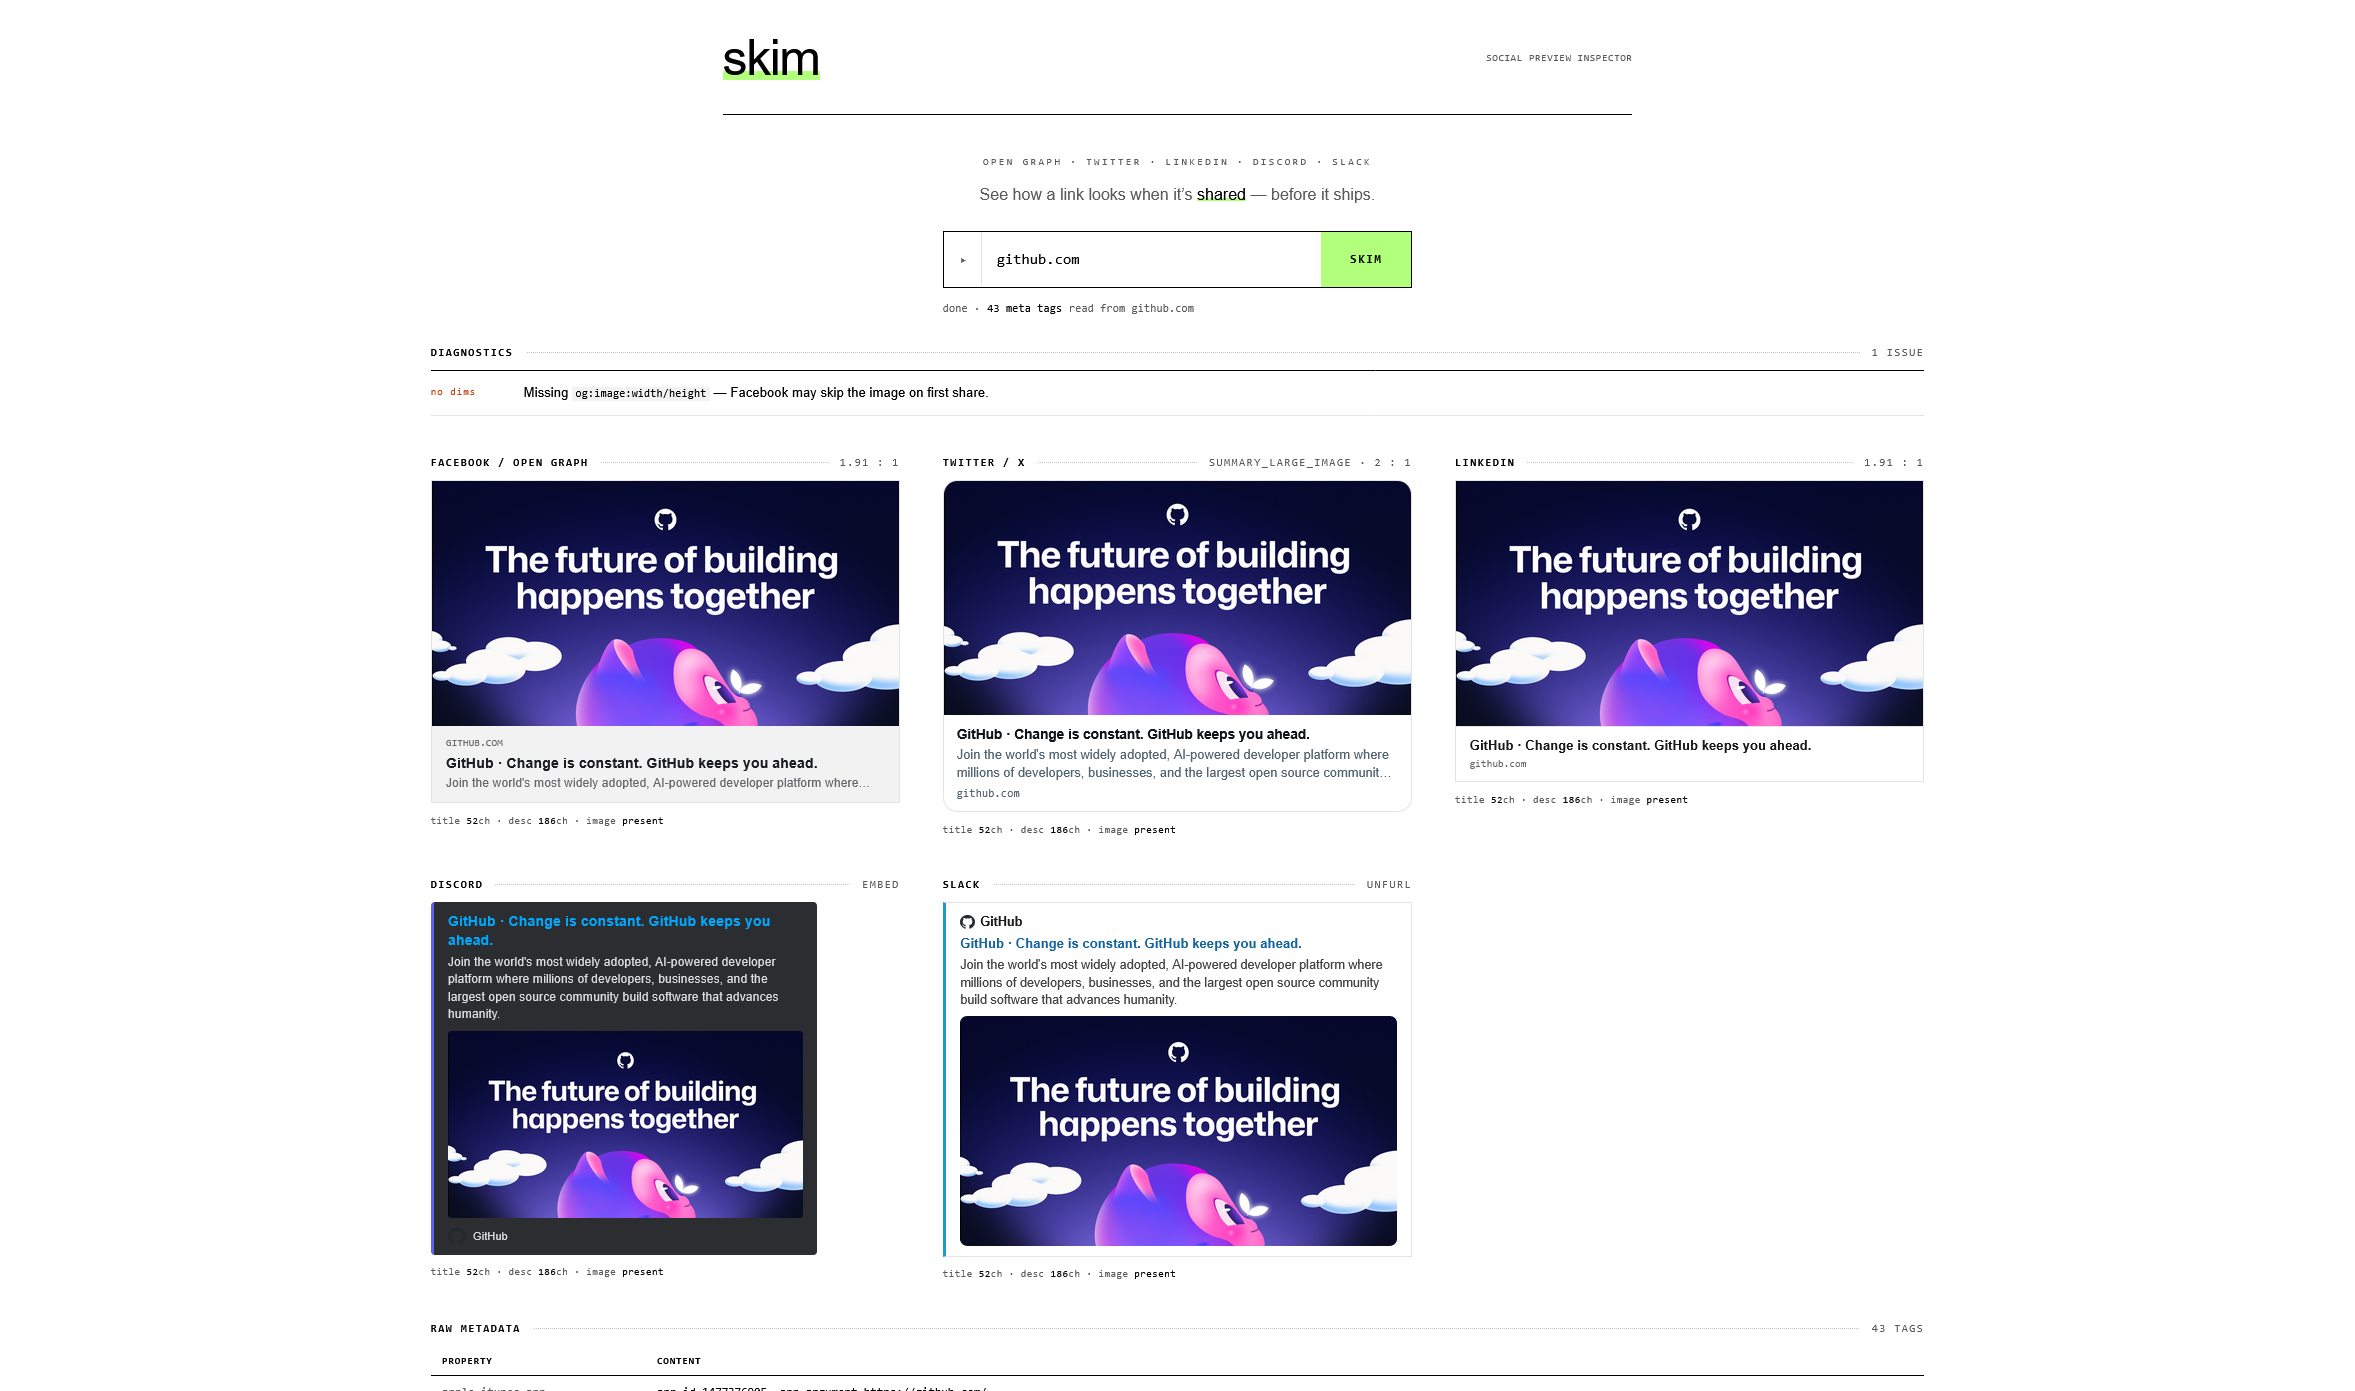
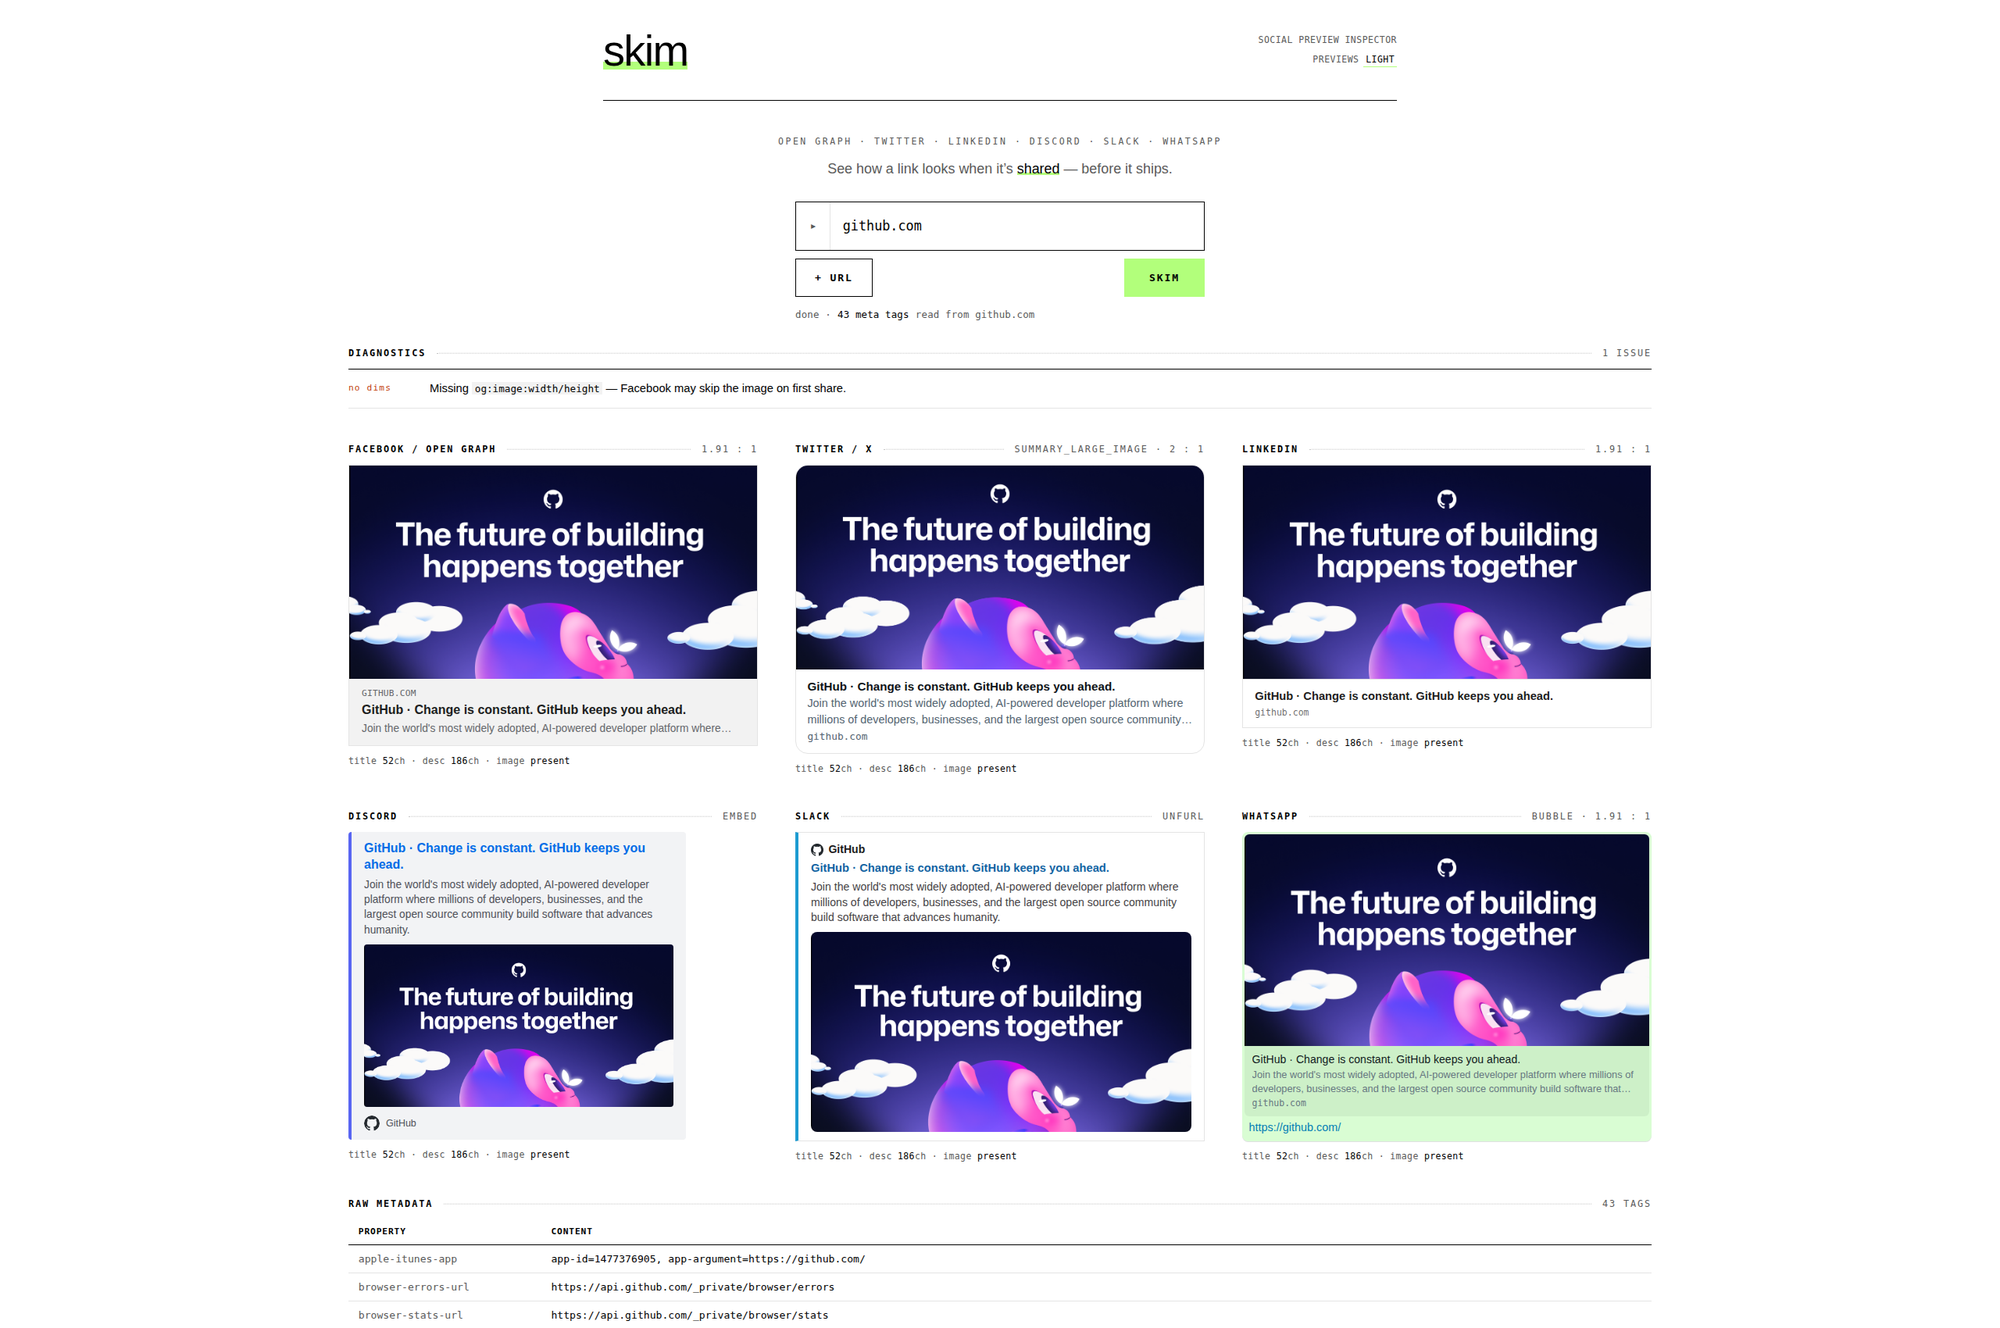
Refresh the README screenshot
The shot predated the multi-URL + URL button and the light/dark toggle, and
still showed a five-card grid with an empty slot; WhatsApp now fills it out
to two rows of three. Recaptured at 2000px — exactly 2x the README's
width=1000 — which keeps it crisp on HiDPI at about the old file size.

diff --git a/README.md b/README.md
@@ -4,7 +4,7 @@ Preview how a link looks when shared on social media — **including `localhost`
 
 skim extracts OpenGraph / Twitter / standard meta tags from any URL — one or several at once — and renders realistic preview cards for **Facebook, Twitter/X, LinkedIn, Discord, Slack, and WhatsApp**, plus validation diagnostics and a raw meta-tag grid.
 
-<img src="docs/screenshot.png" alt="skim previewing a link across Facebook, Twitter/X, LinkedIn, Discord, and Slack, with diagnostics and a raw meta-tag grid" width="1000">
+<img src="docs/screenshot.png" alt="skim previewing a link across Facebook, Twitter/X, LinkedIn, Discord, Slack, and WhatsApp, with diagnostics and a raw meta-tag grid" width="1000">
 
 > The cards are **approximations** of how each platform renders a shared link — not pixel-perfect reproductions. Exact appearance varies by platform, client, and device, and shifts over time as the platforms change. Use skim to sanity-check your tags and layout, not to match a specific platform down to the pixel.
 
